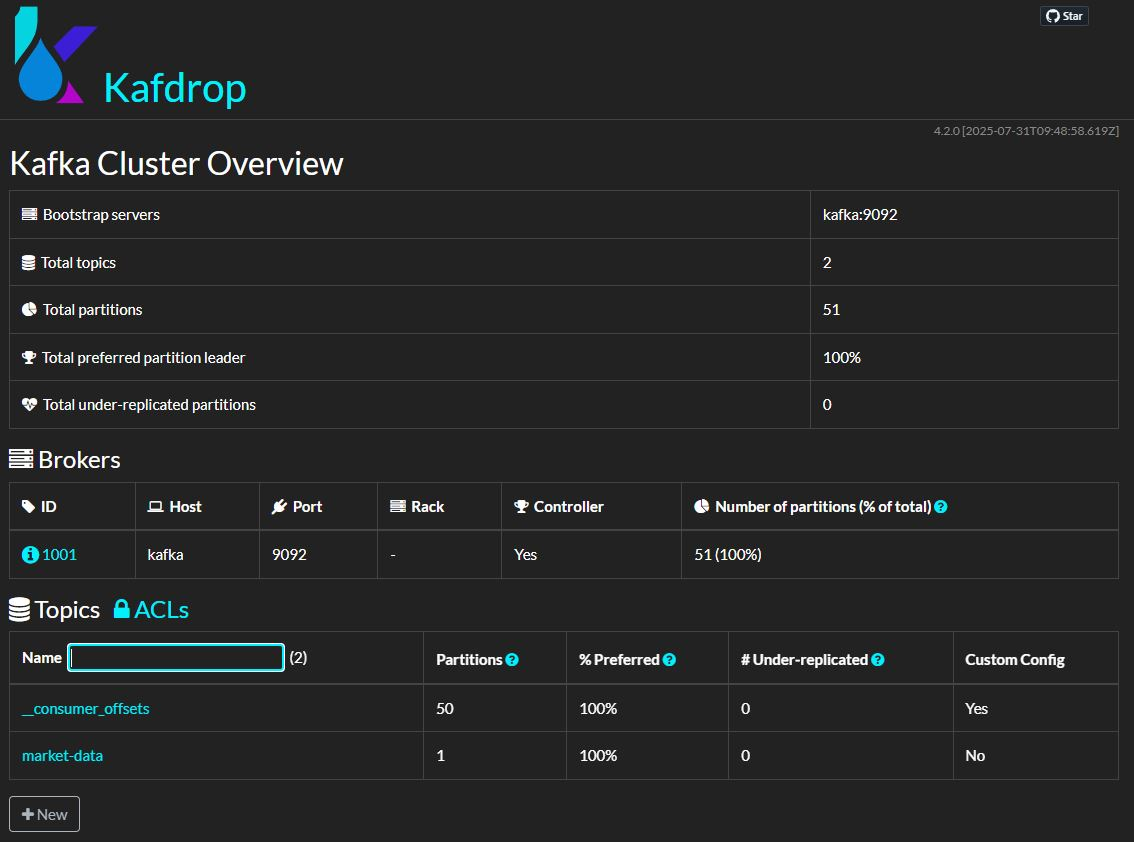
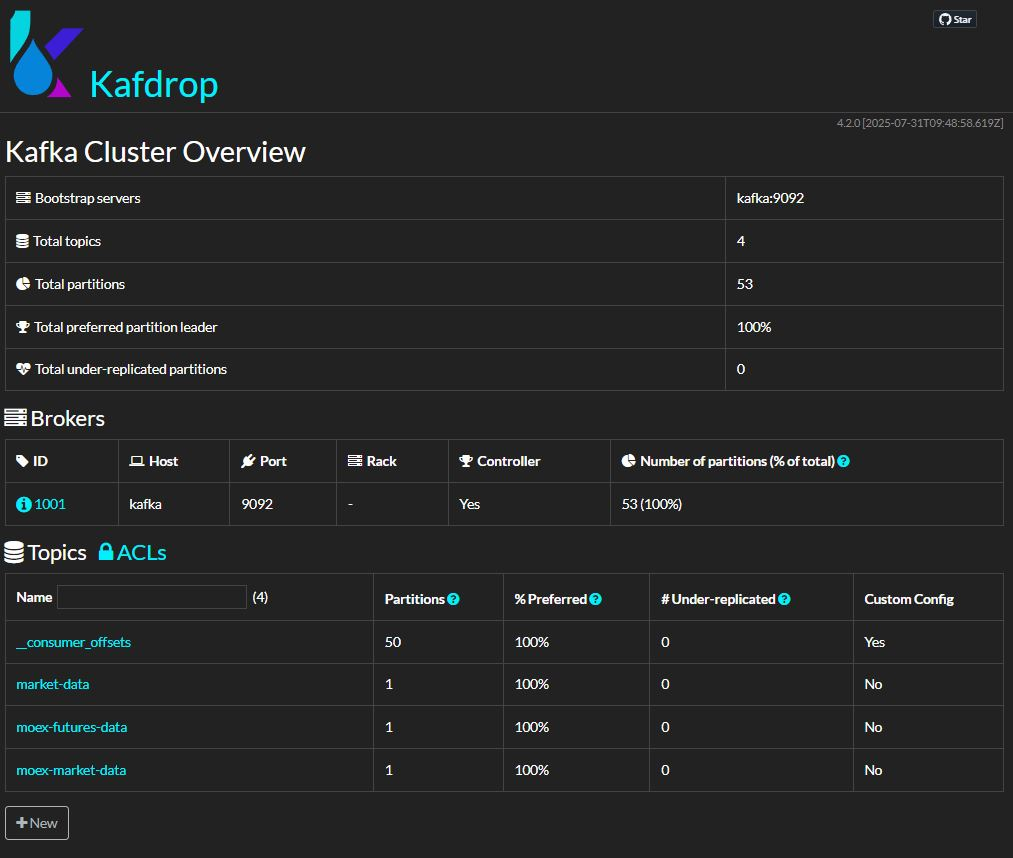
TC-KAFKA-001

diff --git a/quality-assurance/test_cases/kafka_data_pipeline.md b/quality-assurance/test_cases/kafka_data_pipeline.md
@@ -14,7 +14,7 @@
 1. Проверить статус контейнеров: `docker-compose ps`.  
    ER: Все контейнеры в статусе "Up" 
 2. Проверить список топиков: `docker-compose exec kafka kafka-topics --list --bootstrap-server localhost:9092`.  
-   ER: Топик market-data присутствует в списке.
+   ER: Топики __consumer_offsets, market-data, moex-futures-data, moex-market-data присутствуют в списке.
 3. Проверить доступность Kafdrop: http://localhost:9000.  
    ER: Kafdrop доступен и отображает топики
 
